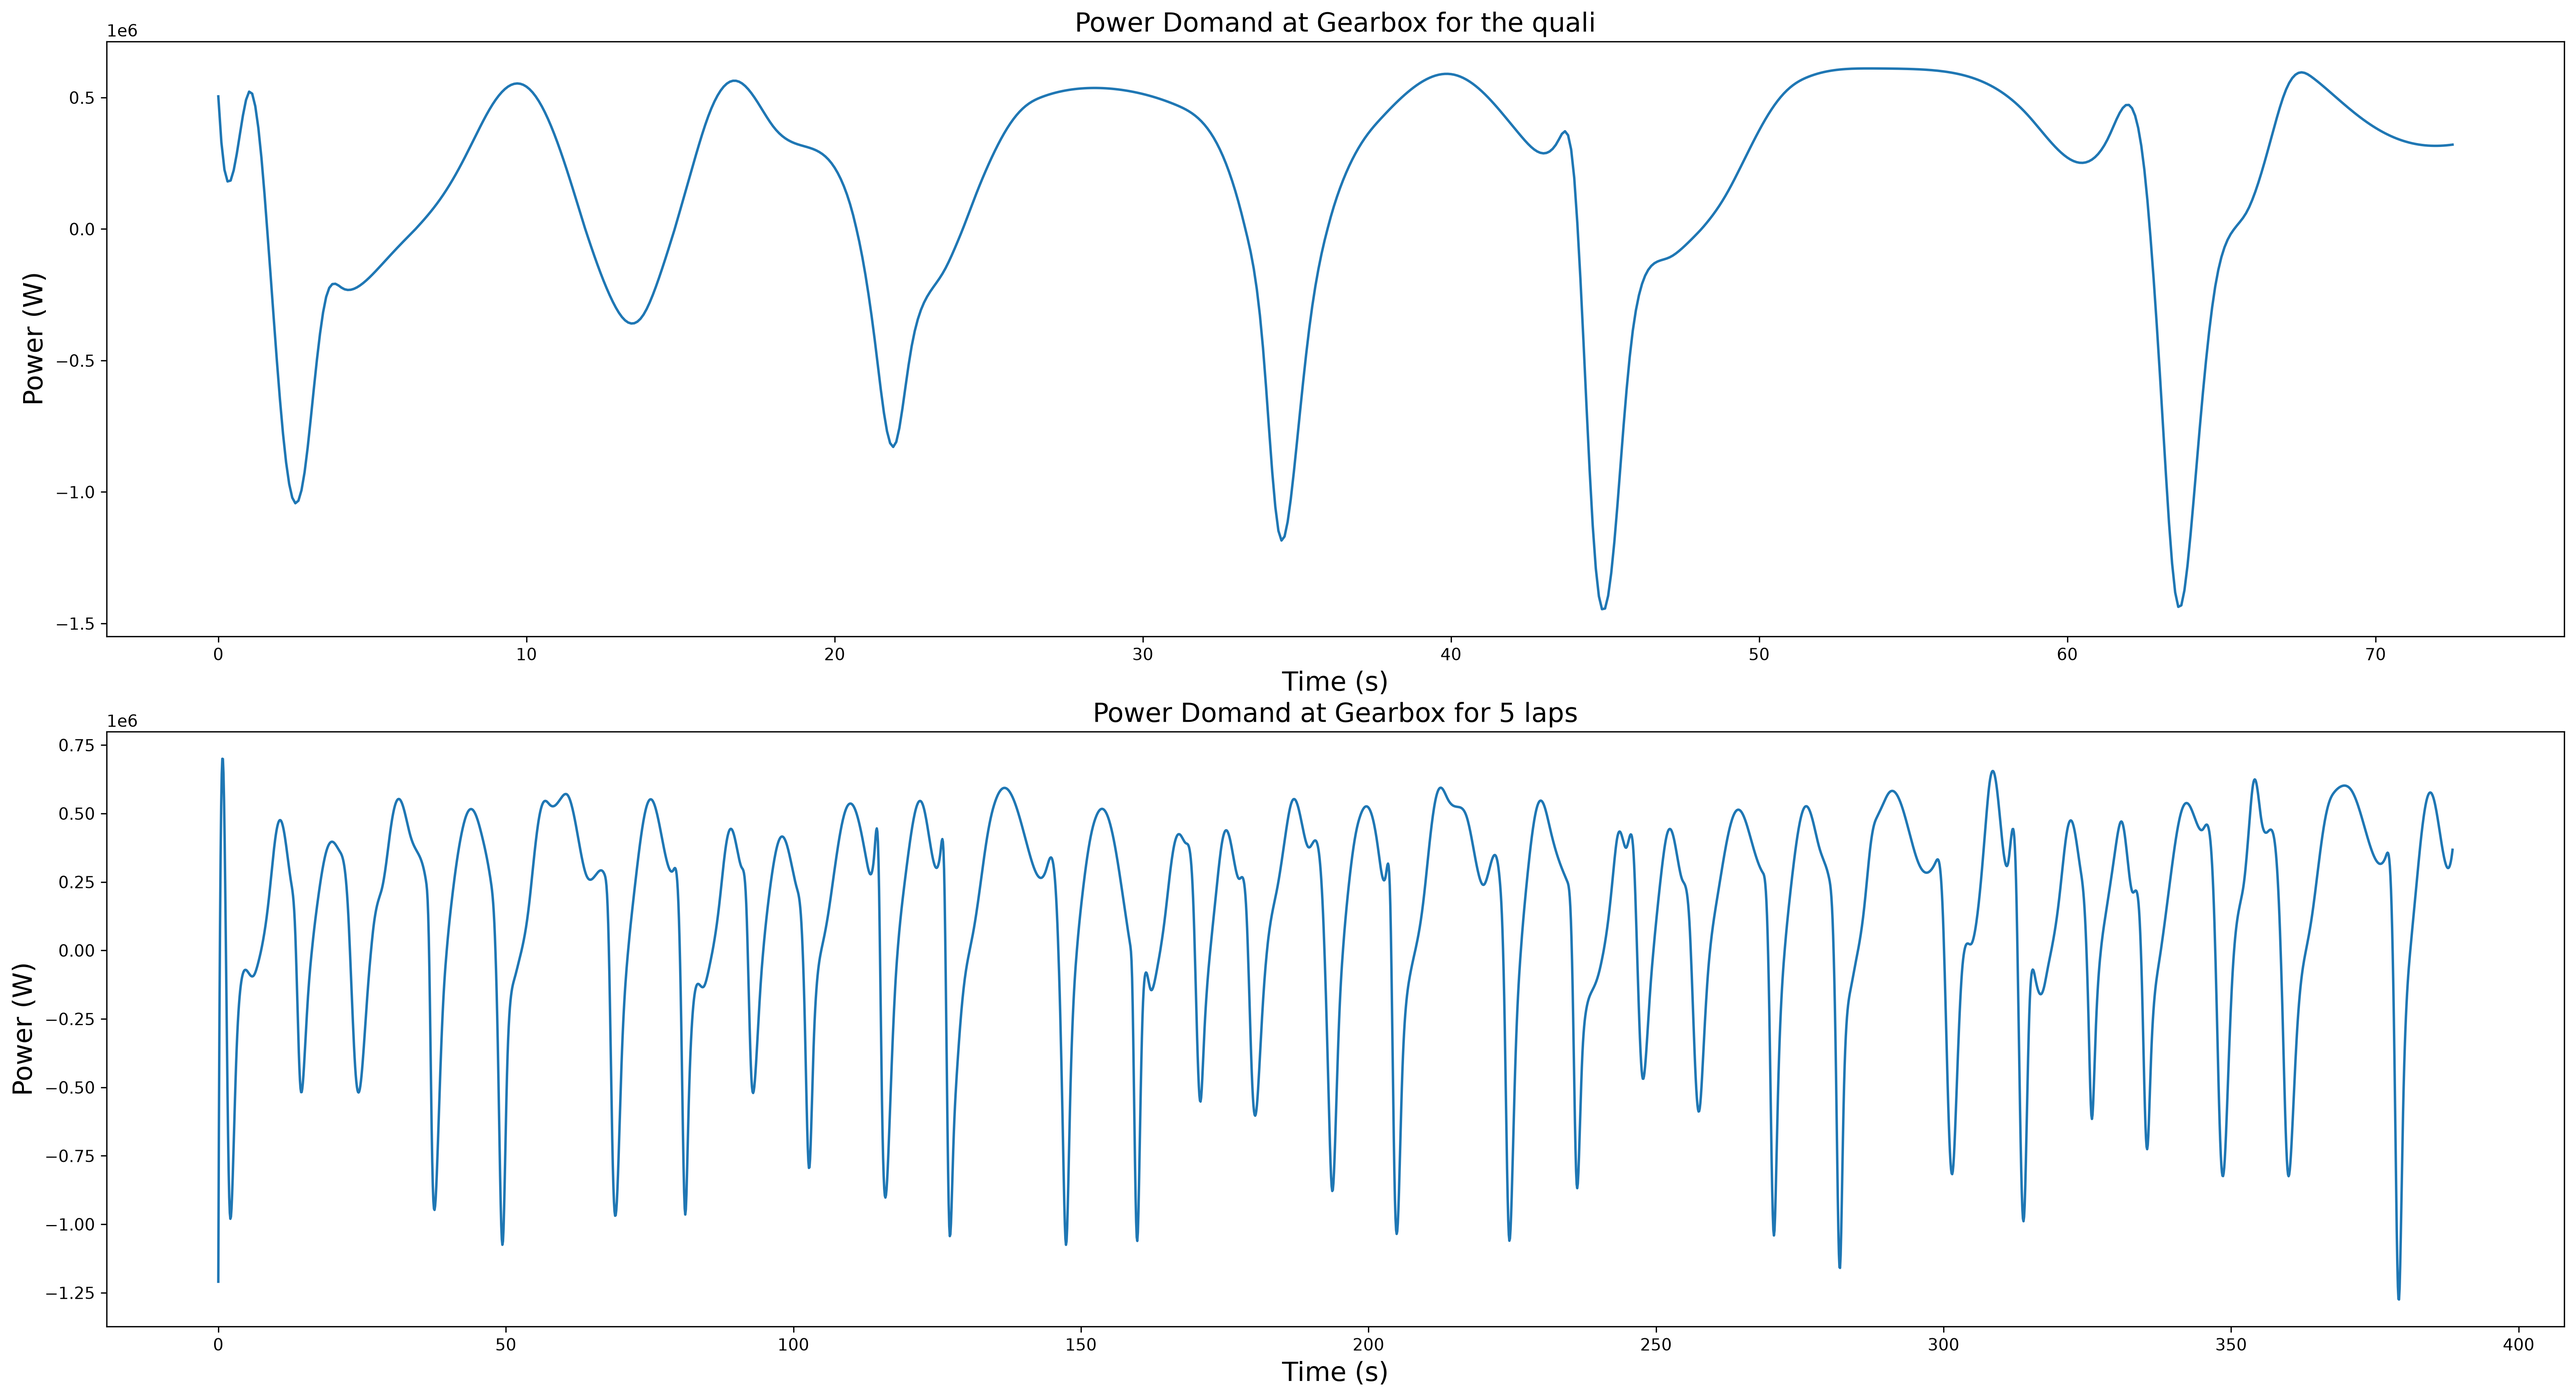
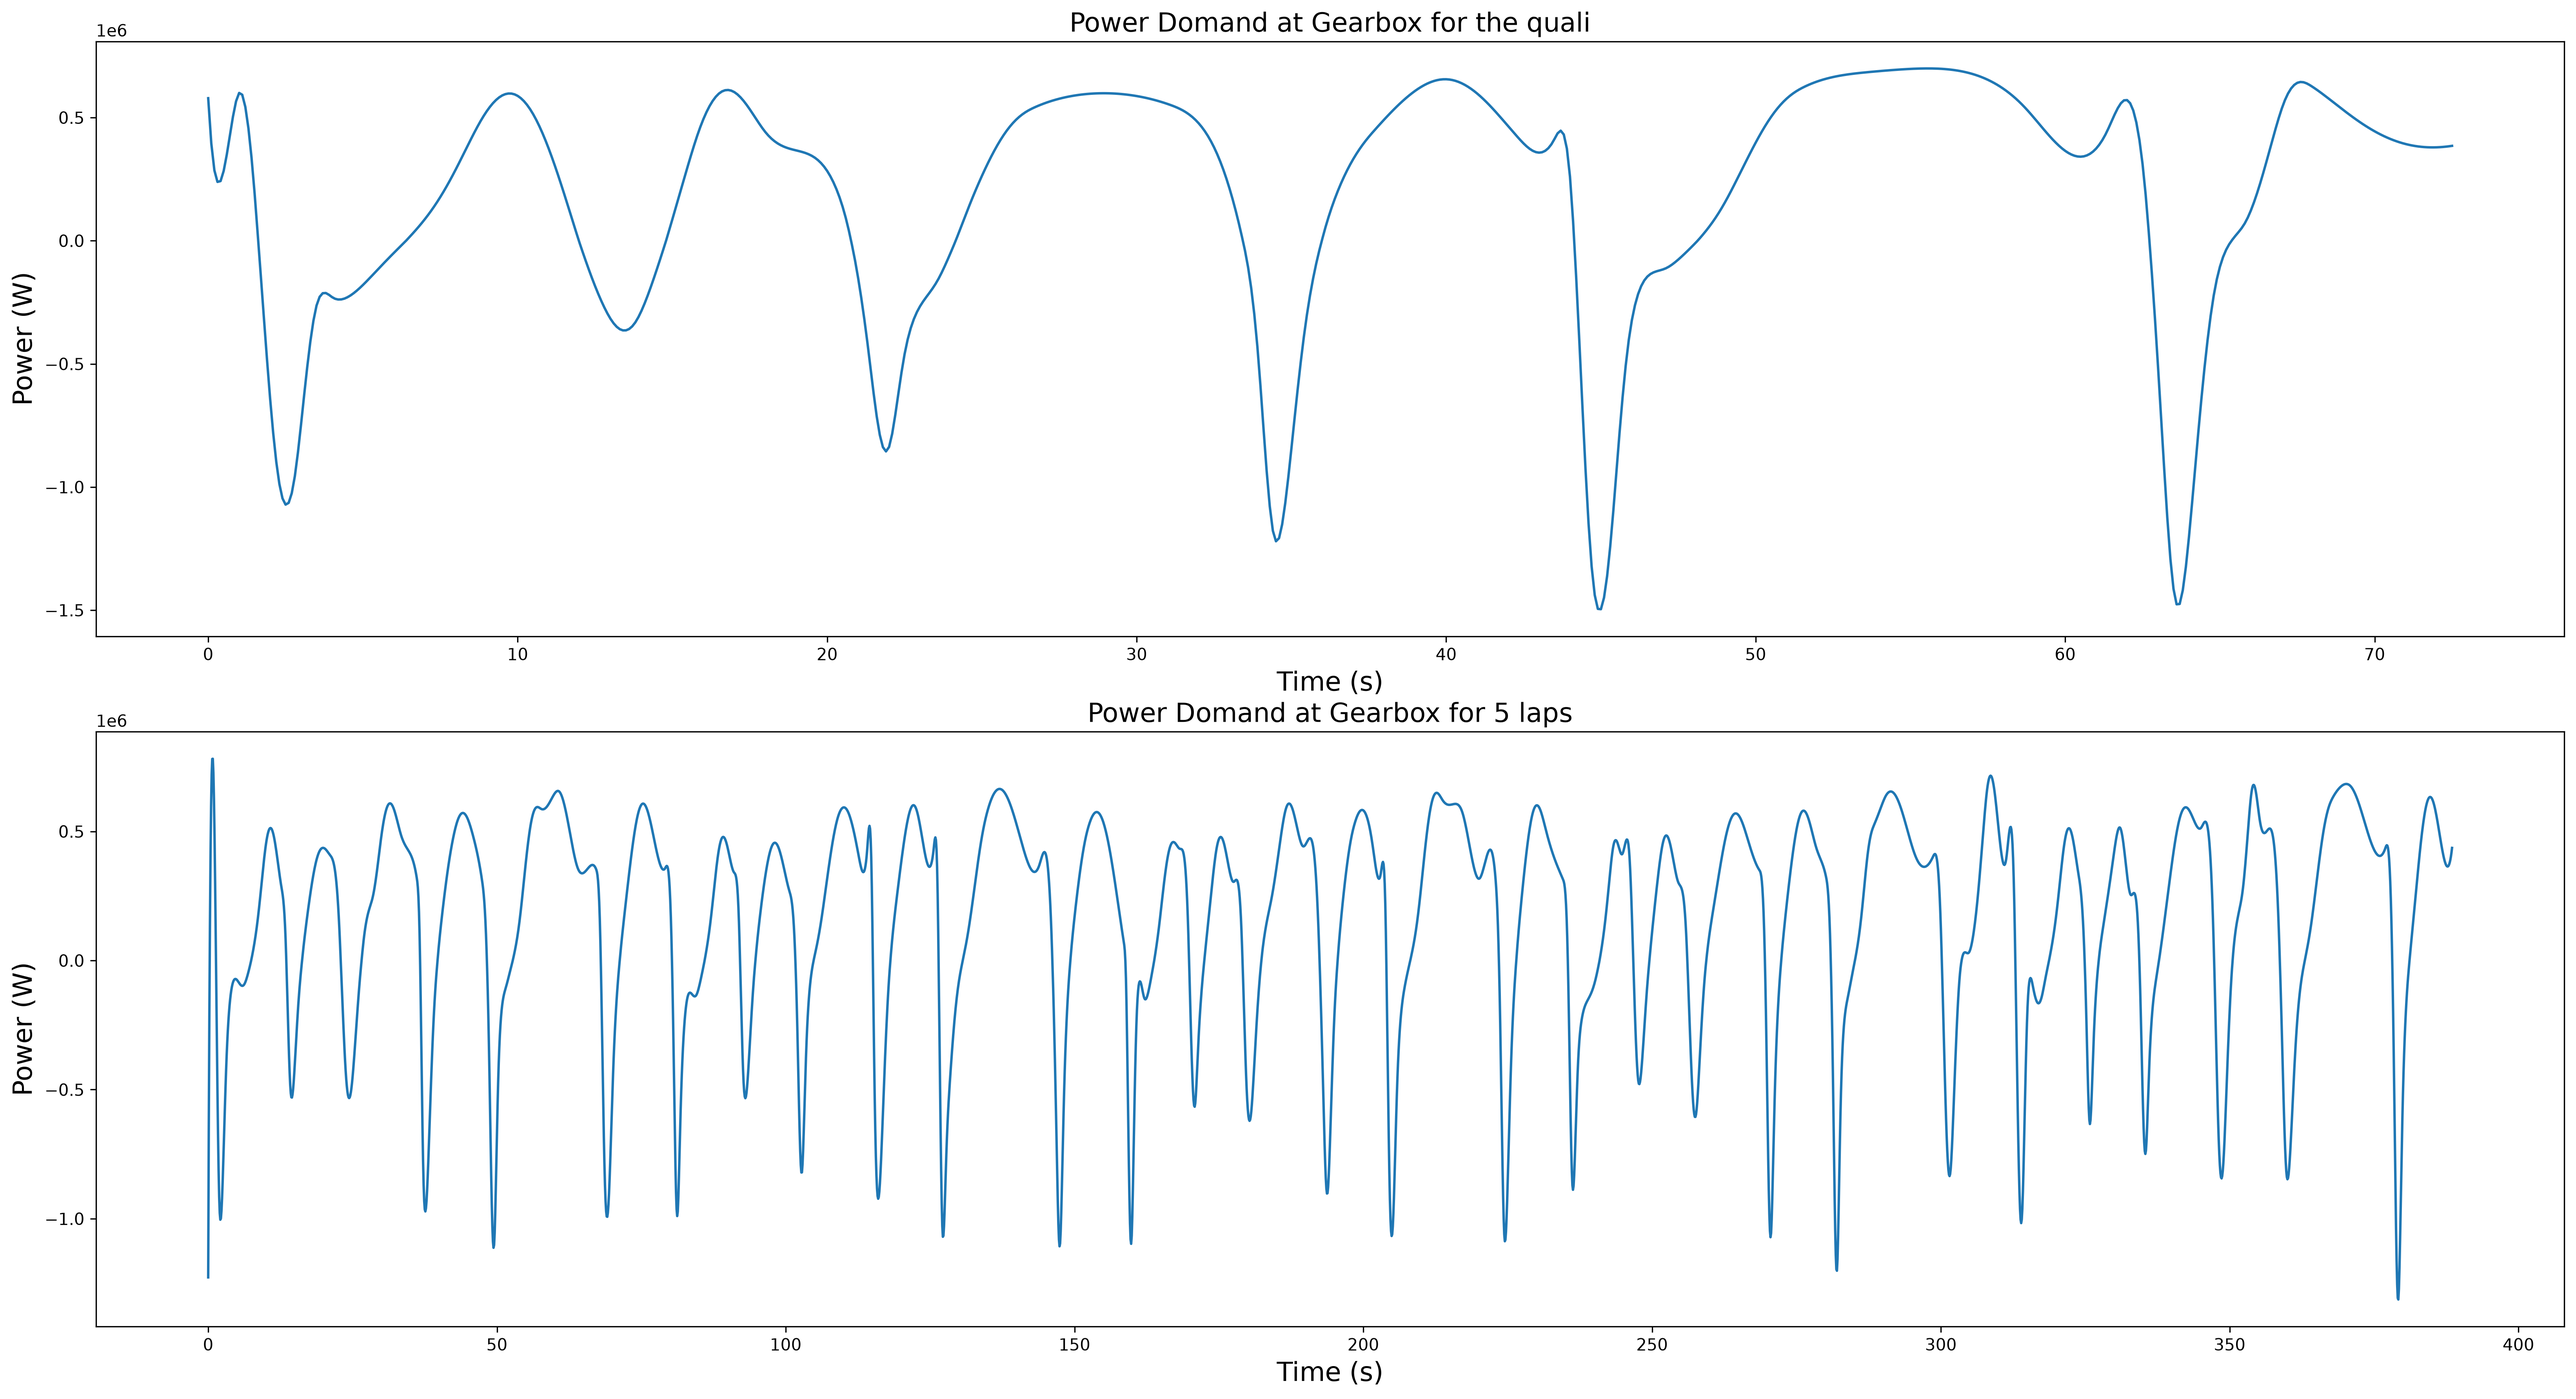
Add license, paths module, Docker setup, CI workflow, results figure and docs

diff --git a/scripts/make_results_overview.py b/scripts/make_results_overview.py
@@ -1,0 +1,128 @@
+"""
+Regenerate the summary figure shown at the top of the README.
+
+Reads the exported result archives under data/results/ and produces
+img/results_overview.png. Nothing is recomputed here: the figure is a view of
+results produced by the notebooks, so it cannot silently disagree with them.
+
+    python scripts/make_results_overview.py
+"""
+
+import sys
+from pathlib import Path
+
+import numpy as np
+import matplotlib
+matplotlib.use("Agg")
+import matplotlib.pyplot as plt
+
+sys.path.insert(0, str(Path(__file__).resolve().parent.parent))
+from paths import RESULTS, IMG, ensure_dirs  # noqa: E402
+
+INK = "#1b1b1b"
+GRID = "#d8d8d8"
+C_DP = "#0b6e4f"
+C_ECMS = "#c1666b"
+C_RB = "#7b8794"
+C_WARN = "#d1495b"
+
+
+def style(ax):
+    ax.set_facecolor("white")
+    ax.grid(True, color=GRID, lw=0.6, alpha=0.8)
+    ax.set_axisbelow(True)
+    for s in ("top", "right"):
+        ax.spines[s].set_visible(False)
+    for s in ("left", "bottom"):
+        ax.spines[s].set_color(GRID)
+    ax.tick_params(colors=INK, labelsize=8, length=3)
+
+
+def main():
+    ensure_dirs()
+    single = np.load(RESULTS / "single_lap_comparison.npz")
+    multi = np.load(RESULTS / "multi_lap_comparison.npz")
+    therm = np.load(RESULTS / "thermal_analysis.npz")
+
+    fig, axes = plt.subplots(1, 3, figsize=(14.5, 4.1))
+    fig.patch.set_facecolor("white")
+
+    # --- panel 1: single lap, charge trajectories -------------------------
+    ax = axes[0]
+    t = single["t"]
+    fuel = {k: single[f"J_{k}"].sum() * 1e3 for k in ("dp", "ecms", "rb")}
+    ax.plot(t, single["SoC_rb"], color=C_RB, lw=1.4,
+            label=f"rule-based  {fuel['rb']:.0f} g")
+    ax.plot(t, single["SoC_ecms"], color=C_ECMS, lw=1.6, ls="--",
+            label=f"ECMS  {fuel['ecms']:.0f} g")
+    ax.plot(t, single["SoC_dp"], color=C_DP, lw=1.8,
+            label=f"DP (optimal)  {fuel['dp']:.0f} g")
+    ax.set_title("Knowing the lap ahead is worth 1.8% fuel",
+                 fontsize=10, color=INK, loc="left", pad=9)
+    ax.set_xlabel("time [s]", fontsize=8)
+    ax.set_ylabel("state of charge [-]", fontsize=8)
+    ax.legend(fontsize=7.5, frameon=False, loc="lower left")
+    style(ax)
+
+    # --- panel 2: five laps, repeatability --------------------------------
+    ax = axes[1]
+    tm, lap = multi["t"], multi["N_lap"]
+    lap_ids = np.unique(lap)
+
+    def per_lap_min(soc):
+        return np.array([soc[lap == l].min() for l in lap_ids])
+
+    for key, colour, lab in (("baseline", C_WARN, "fuel-optimal"),
+                             ("fixed", C_DP, "with end-of-lap charge floor")):
+        soc = multi[f"SoC_{key}"]
+        ax.plot(np.arange(1, len(lap_ids) + 1), per_lap_min(soc), "o-",
+                color=colour, lw=2.2, ms=7, label=lab)
+
+    ax.axhline(0.2, color=INK, lw=1.0, ls=":", alpha=0.7)
+    ax.text(len(lap_ids) + 0.05, 0.207, "charge floor", ha="right",
+            fontsize=7.5, color=INK)
+    ax.set_xticks(np.arange(1, len(lap_ids) + 1))
+    ax.set_xlim(0.6, len(lap_ids) + 0.4)
+    ax.set_ylim(0.13, 0.88)
+    ax.set_title("The fuel-optimal strategy is not raceable",
+                 fontsize=10, color=INK, loc="left", pad=9)
+    ax.set_xlabel("lap", fontsize=8)
+    ax.set_ylabel("lowest state of charge in the lap [-]", fontsize=8)
+    ax.legend(fontsize=7.5, frameon=False, loc="upper center", ncol=1)
+    style(ax)
+
+    # --- panel 3: thermal derating ----------------------------------------
+    ax = axes[2]
+    cfs = therm["cfs"]
+    counts = therm["binding_counts"]
+    x = np.arange(len(cfs))
+    bars = ax.bar(x, counts, width=0.6, color=C_WARN, alpha=0.85)
+    ax.set_xticks(x)
+    ax.set_xticklabels([f"{c:.0%}" for c in cfs], fontsize=8)
+    for xi, c in zip(x, counts):
+        ax.text(xi, c + 25, f"{c}", ha="center", fontsize=8, color=INK)
+    ax.set_ylim(0, counts.max() * 1.22)
+    ax.set_title("Thermal derating binds before charge runs out",
+                 fontsize=10, color=INK, loc="left", pad=9)
+    ax.set_xlabel("cooling effectiveness", fontsize=8)
+    ax.set_ylabel("stages with derating active\n(out of 3886)", fontsize=8)
+    style(ax)
+
+    sf_b, sf_a = float(therm["sf_before"]), float(therm["sf_after"])
+    fig.text(0.995, 0.015,
+             f"closing the policy-thermal loop: unmet demand "
+             f"{sf_b:.2f} → {sf_a:.2f} MJ",
+             ha="right", fontsize=8, color=C_RB, style="italic")
+
+    fig.tight_layout(rect=(0, 0.035, 1, 1))
+    out = IMG / "results_overview.png"
+    fig.savefig(out, dpi=150, facecolor="white", bbox_inches="tight")
+    plt.close(fig)
+    print(f"wrote {out}")
+    print(f"  single lap fuel [g]: " +
+          ", ".join(f"{k}={v:.2f}" for k, v in fuel.items()))
+    print(f"  binding counts: {dict(zip(cfs.tolist(), counts.tolist()))}")
+
+
+if __name__ == "__main__":
+    main()

diff --git a/paths.py b/paths.py
@@ -1,0 +1,85 @@
+"""
+Single source of truth for every path in the project.
+
+Motivation: notebooks run with their own directory as the working directory,
+scripts run from the repository root, and the Docker image mounts the project
+at /app. A relative literal such as 'data/results/thermal_analysis.npz' is
+therefore correct in one of those three contexts and silently wrong in the
+other two - it either raises FileNotFoundError or, worse, writes a second copy
+of the results somewhere nobody looks.
+
+Every path below is derived from the location of this file, so it resolves to
+the same absolute location regardless of where Python was started.
+
+Usage
+-----
+    from paths import DATA_QUALI, RESULTS, ensure_dirs
+
+    ensure_dirs()
+    np.save(DATA_QUALI / "SOC_DP_Canada_qualifying.npy", SoC)
+    np.savez(RESULTS / "thermal_analysis.npz", **payload)
+
+In a notebook under controller/, add the repository root to the path first:
+
+    import sys; sys.path.insert(0, "..")
+    from paths import RESULTS
+"""
+
+from pathlib import Path
+import os
+
+# --- roots -----------------------------------------------------------------
+
+ROOT = Path(__file__).resolve().parent
+
+PLANT = ROOT / "plant"
+CONTROLLER = ROOT / "controller"
+SCRIPTS = ROOT / "scripts"
+RL = ROOT / "rl"
+TESTS = ROOT / "tests"
+
+# --- data ------------------------------------------------------------------
+
+DATA = ROOT / "data"
+DATA_QUALI = DATA / "qualifying_Canada"      # single-lap DP inputs and outputs
+DATA_MULTI = DATA / "multi_lap_Canada"       # 5-lap profile and battery temperature
+RESULTS = DATA / "results"                   # .npz consumed by Summary_of_Results
+
+# --- outputs ---------------------------------------------------------------
+
+IMG = ROOT / "img"                           # exported figures
+RUNS = ROOT / "runs"                         # RL training runs (checkpoints, logs)
+
+# --- named files -----------------------------------------------------------
+# Referenced from more than one place, so they get a name instead of a literal.
+
+VELOCITY_PROFILE_QUALI = DATA_QUALI / "Canada_qualifying.npy"
+VELOCITY_PROFILE_MULTI = DATA_MULTI / "Canada_5laps.npy"
+
+SINGLE_LAP_COMPARISON = RESULTS / "single_lap_comparison.npz"
+MULTI_LAP_COMPARISON = RESULTS / "multi_lap_comparison.npz"
+THERMAL_ANALYSIS = RESULTS / "thermal_analysis.npz"
+
+# --- FastF1 cache ----------------------------------------------------------
+# Outside the repository by default. Keeping it inside means every telemetry
+# download lands in the working tree and, sooner or later, in git history -
+# which is how a 61 MB cache directory got committed in the first place.
+# The Docker image sets FASTF1_CACHE=/cache on a named volume.
+
+FASTF1_CACHE = Path(os.environ.get(
+    "FASTF1_CACHE",
+    Path.home() / ".cache" / "fastf1_thermal_aware_ems"))
+
+
+def ensure_dirs():
+    """Create the directories that are written to. Safe to call repeatedly."""
+    for d in (DATA_QUALI, DATA_MULTI, RESULTS, IMG, RUNS, FASTF1_CACHE):
+        d.mkdir(parents=True, exist_ok=True)
+
+
+if __name__ == "__main__":
+    ensure_dirs()
+    for name, value in sorted(globals().items()):
+        if name.isupper() and isinstance(value, Path):
+            mark = "ok " if value.exists() else "-- "
+            print(f"{mark}{name:26s} {value}")
